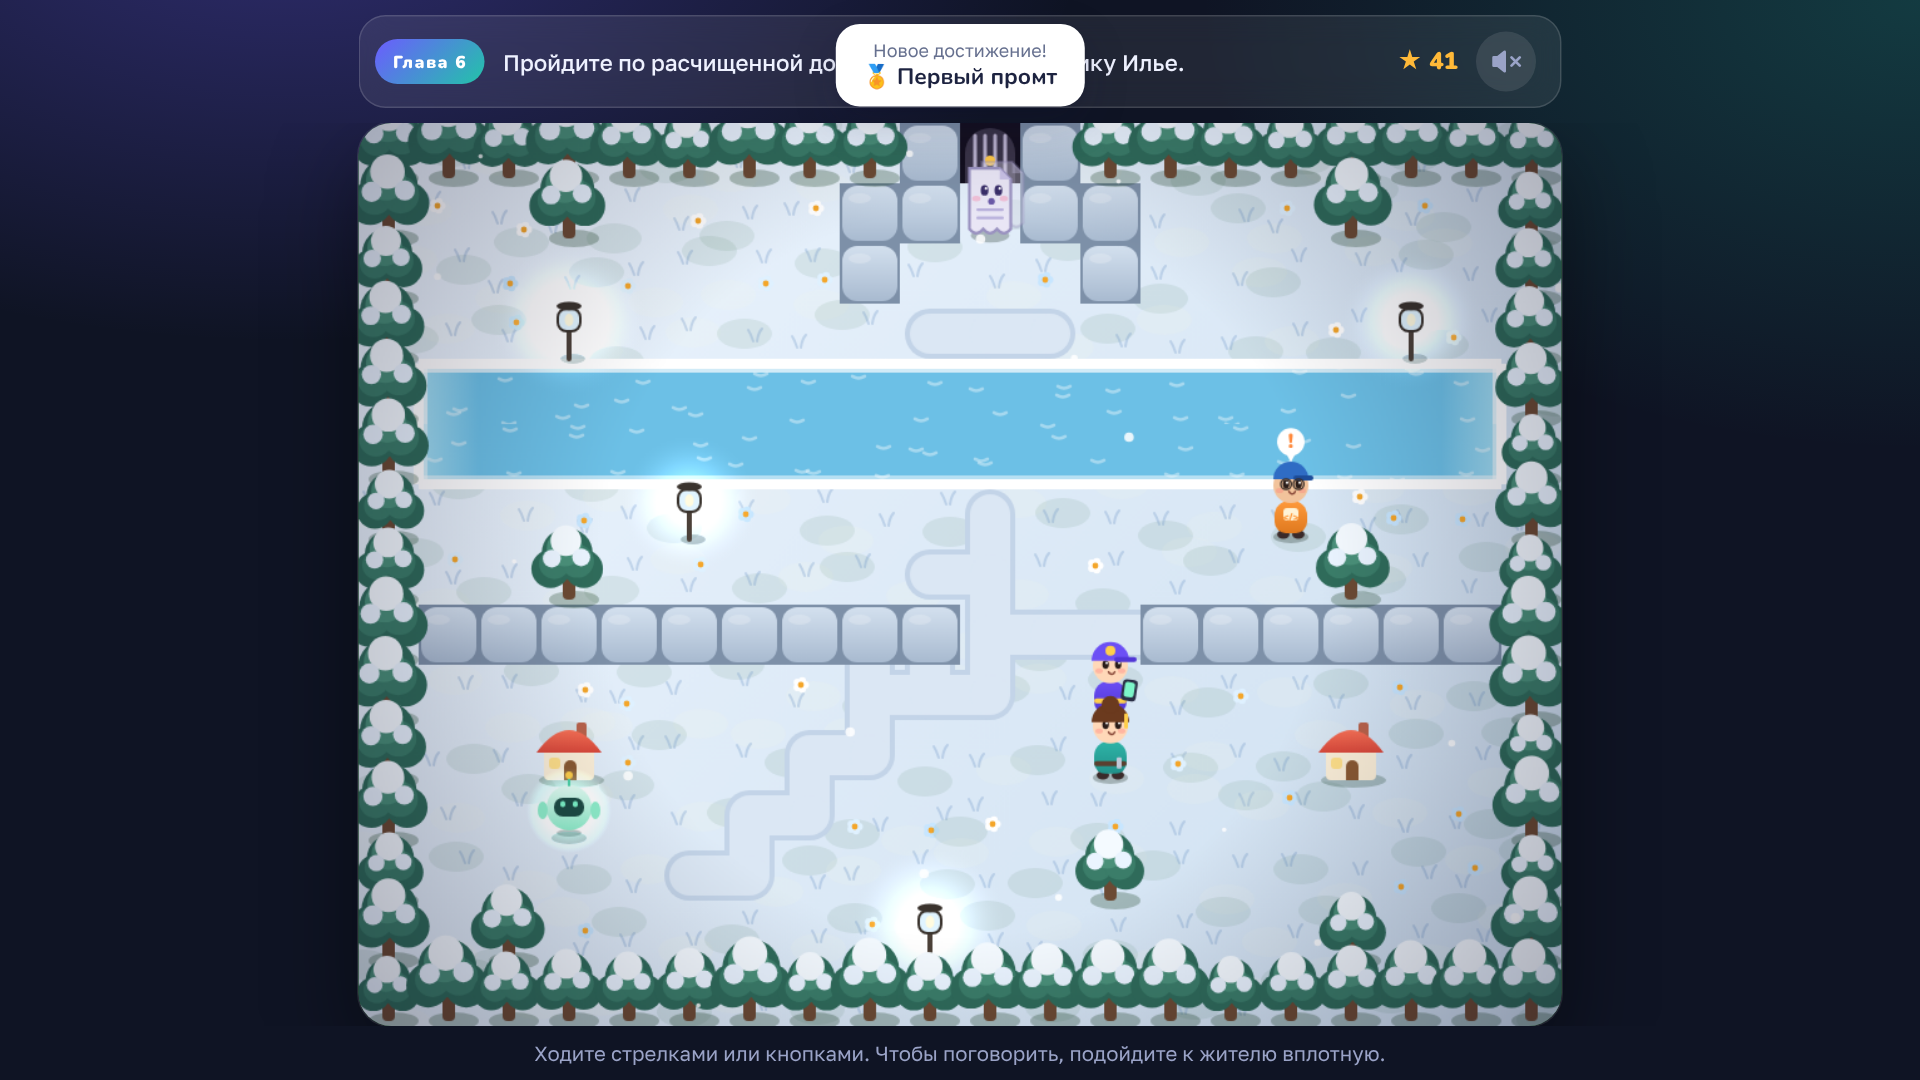
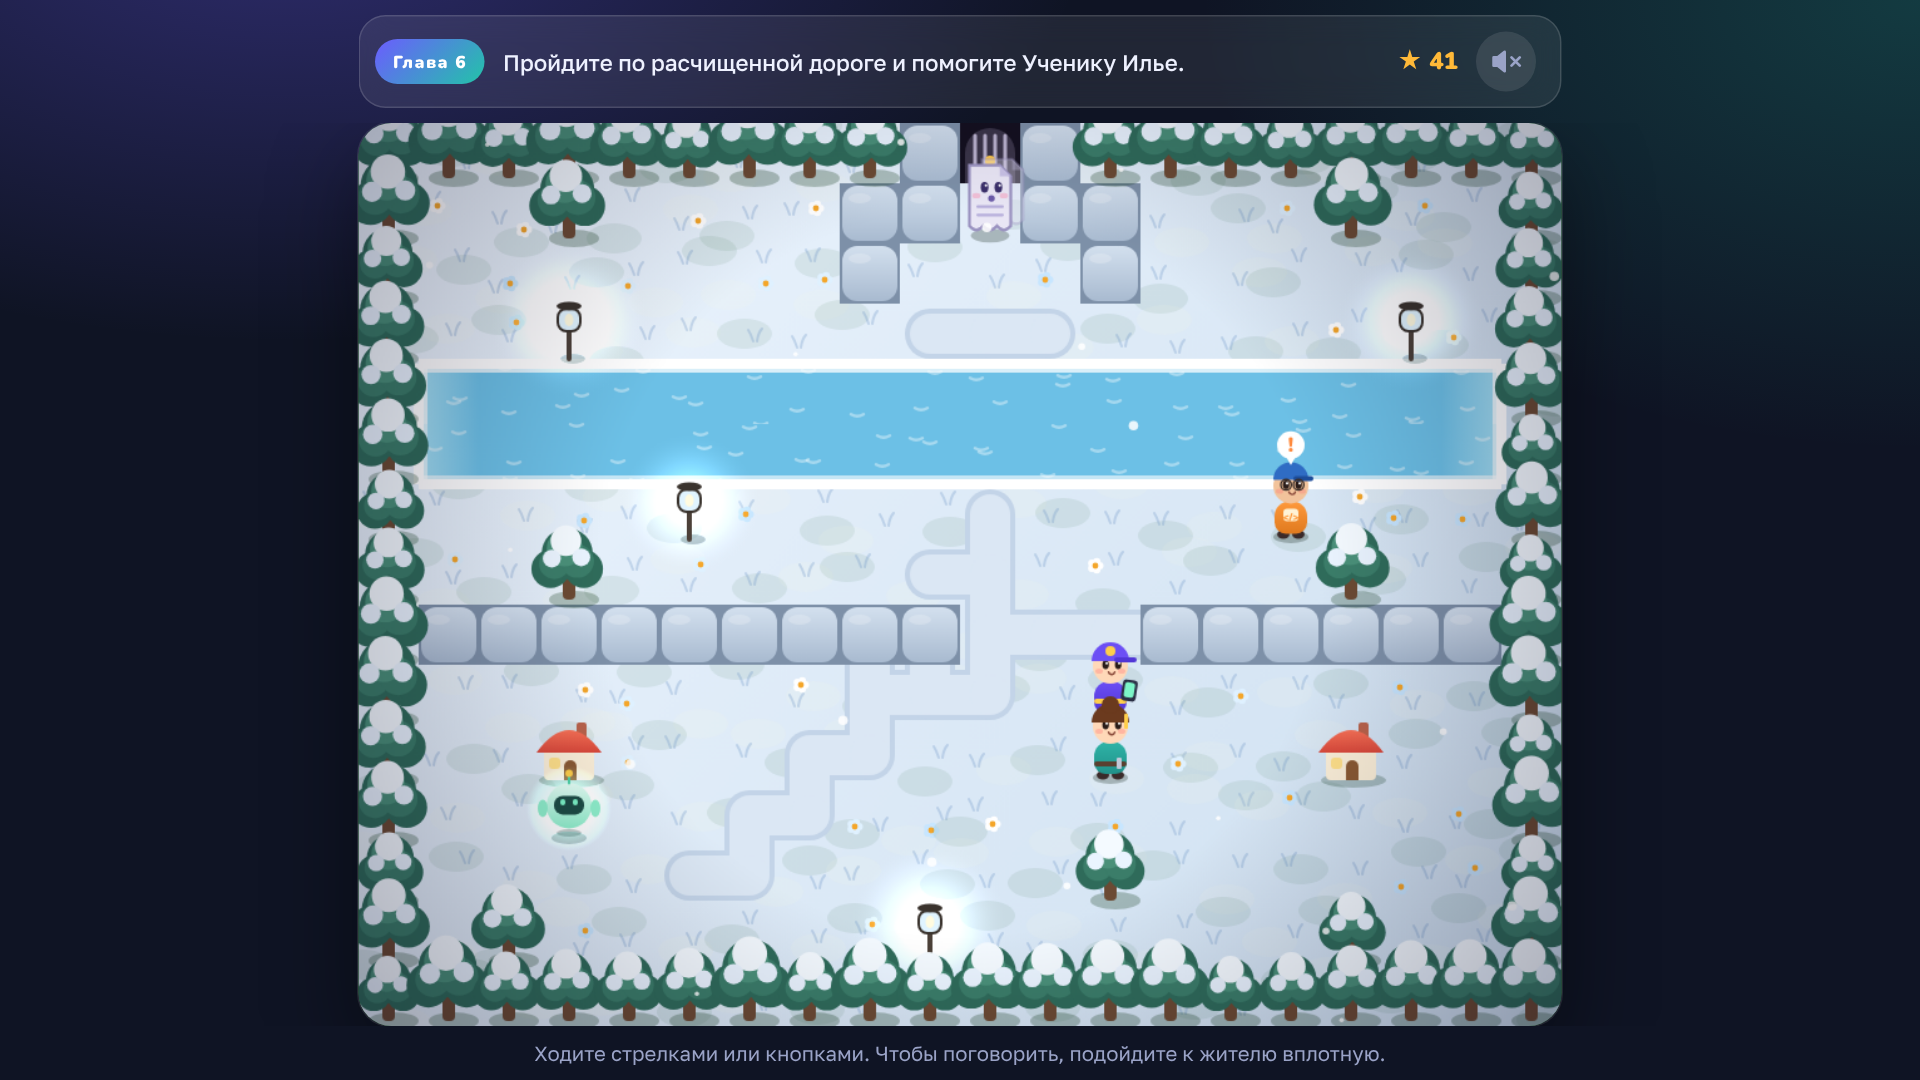
Материалы для Яндекс Игр на трёх языках
- Скриншоты и обложки на английском и узбекском (promo/en, promo/uz).
- Тексты карточки на трёх языках в рамках лимитов Яндекса (promo/store-texts.json).
- Скрипты для картинок и обязательного видео 16:9 (tools/promo); сами видео
  в git не хранятся, они лежат в папке проекта.
- На промо-скриншотах больше нет всплывающего окна достижения.

Claude-Session: https://claude.ai/code/session_01LLc3YPTq3AWudM7CQxceow

diff --git a/tools/promo/trailer.js b/tools/promo/trailer.js
@@ -1,0 +1,58 @@
+// Ролик для карточки Яндекса (16:9, до 28 с): титул → разговор → сборка промта с ошибкой → мост → другие миры.
+const fs = require('fs');
+const { chromium } = require(require('child_process').execSync('npm root -g').toString().trim() + '/playwright');
+const REPO = '/home/claude/zaklinatel-promtov', LANG = process.argv[2] || 'ru', DIR = __dirname + '/vid-' + LANG;
+global.window = {};
+require(REPO + '/js/world.js');
+const { build, W, H, SOLID } = window.World;
+const DIRS = { U: [0, -1], D: [0, 1], L: [-1, 0], R: [1, 0] };
+function route(grid, npcs, from, target) {
+  const key = (x, y) => x + ',' + y, prev = new Map([[key(from.x, from.y), null]]), q = [[from.x, from.y]];
+  while (q.length) {
+    const [x, y] = q.shift();
+    for (const [d, [dx, dy]] of Object.entries(DIRS)) {
+      const nx = x + dx, ny = y + dy, k = key(nx, ny);
+      if (nx < 0 || ny < 0 || nx >= W || ny >= H || prev.has(k)) continue;
+      if (nx === target.x && ny === target.y) { let path = d, cur = key(x, y); while (prev.get(cur)) { const [pd, pk] = prev.get(cur); path = pd + path; cur = pk; } return { path, end: { x, y } }; }
+      if (SOLID.has(grid[ny][nx]) || Object.values(npcs).some(n => !n.hidden && n.x === nx && n.y === ny)) continue;
+      prev.set(k, [d, key(x, y)]); q.push([nx, ny]);
+    }
+  }
+  throw new Error('нет пути');
+}
+const ACH = ['first', 'perfect', 'nohint', 'part1', 'part2', 'allstars', 'daily1', 'streak3', 'streak7'];
+(async () => {
+  fs.rmSync(DIR, { recursive: true, force: true });
+  const b = await chromium.launch();
+  const ctx = await b.newContext({ viewport: { width: 1280, height: 720 }, recordVideo: { dir: DIR, size: { width: 1280, height: 720 } } });
+  const p = await ctx.newPage();
+  await p.addInitScript(lang => { if (!sessionStorage.seeded) { localStorage.clear(); localStorage.setItem('kodolesie-lang', lang); localStorage.setItem('kodolesie-sound', 'off'); sessionStorage.seeded = 1; } }, LANG);
+  await p.goto('file://' + REPO + '/index.html');
+  await p.evaluate(a => localStorage.setItem('zaklinatel-save-v1', JSON.stringify({ v: 3, ch: 0, met: false, done: [], pos: null, stars: {}, ach: a })), ACH);
+  await p.reload(); await p.waitForTimeout(1800);
+  const C = await p.evaluate(() => I18N.content());
+  const K = { U: 'ArrowUp', D: 'ArrowDown', L: 'ArrowLeft', R: 'ArrowRight' };
+  const walk = async s => { for (const c of s) { await p.keyboard.down(K[c]); await p.waitForTimeout(60); await p.keyboard.up(K[c]); await p.waitForTimeout(170); } };
+  const talk = async ms => { while (await p.$('#sheet:not([hidden]) .talk')) { await p.waitForTimeout(ms); await p.click('.talk'); } };
+  const clickCard = async t => { for (const e of await p.$$('.card')) if ((await e.textContent()) === t) return e.click(); };
+  await p.click('#t-play'); await p.waitForTimeout(300);
+  // Вступление: два первых экрана медленно, остальные быстро.
+  let n = 0; while (await p.$('#sheet:not([hidden]) .talk')) { await p.waitForTimeout(n++ < 2 ? 1000 : 60); await p.click('.talk'); }
+  const { grid, npcs, start } = build(0), q = C.CHAPTERS[0].quests[0];
+  await walk(route(grid, npcs, start, npcs[q.id]).path);
+  await talk(650);
+  await p.waitForTimeout(500);
+  await clickCard(q.slots[0].opts.find(o => !o.ok).t); await p.waitForTimeout(300);
+  for (const s of q.slots.slice(1)) { await clickCard(s.opts.find(o => o.ok).t); await p.waitForTimeout(300); }
+  await p.click('#b-cast'); await p.waitForTimeout(2000);
+  await clickCard(q.slots[0].opts.find(o => o.ok).t); await p.waitForTimeout(500);
+  await p.click('#b-cast'); await p.waitForTimeout(2000);
+  await p.click('#m-ok'); await p.waitForTimeout(200); await talk(700); await p.waitForTimeout(1500);
+  // Другие миры: Кодоград и Снежная мастерская.
+  for (const [ch, x, y] of [[3, 10, 6], [5, 12, 9], [6, 6, 8]]) {
+    await p.evaluate(([ch, x, y, a]) => { localStorage.setItem('zaklinatel-save-v1', JSON.stringify({ v: 3, ch, met: true, done: [], pos: { x, y }, stars: {}, ach: a })); }, [ch, x, y, ACH]);
+    await p.reload(); await p.waitForTimeout(300); await p.click('#t-play'); await p.waitForTimeout(1500);
+  }
+  await ctx.close(); await b.close();
+  console.log(fs.readdirSync(DIR));
+})();

diff --git a/tools/promo/promo.js b/tools/promo/promo.js
@@ -1,0 +1,41 @@
+const fs = require('fs');
+const { chromium } = require(require('child_process').execSync('npm root -g').toString().trim() + '/playwright');
+const LANG = process.argv[2] || 'ru';
+const OUT = '/home/claude/zaklinatel-promtov/promo/' + (LANG === 'ru' ? '' : LANG + '/');
+fs.mkdirSync(OUT, { recursive: true });
+const GAME = 'file:///home/claude/zaklinatel-promtov/index.html';
+const talkAll = async p => { while (await p.$('#sheet:not([hidden]) .talk')) { await p.click('.talk'); await p.waitForTimeout(60); } };
+(async () => {
+  const b = await chromium.launch({ args: ['--allow-file-access-from-files'] });
+  for (const m of LANG === 'ru' ? ['icon', 'cover'] : ['cover']) {
+    const p = await b.newPage({ viewport: { width: m === 'icon' ? 512 : 800, height: m === 'icon' ? 512 : 470 } });
+    await p.goto('file:///home/claude/zaklinatel-promtov/promo/_art.html#' + m + '-' + LANG); await p.waitForTimeout(300); await p.waitForFunction(() => document.title === 'done');
+    await (await p.$('#c')).screenshot({ path: OUT + m + '.png' }); await p.close();
+  }
+  const shoot = async (name, viewport, scale, save, act) => {
+    save = { ...save, ach: ['first', 'perfect', 'nohint', 'part1', 'part2', 'allstars', 'daily1', 'streak3', 'streak7'] }; // без всплывающих достижений на скриншотах
+    const ctx = await b.newContext({ viewport, deviceScaleFactor: scale, hasTouch: viewport.width < viewport.height, isMobile: viewport.width < viewport.height });
+    const p = await ctx.newPage();
+    await p.goto(GAME);
+    await p.evaluate(s => { localStorage.setItem('zaklinatel-save-v1', s[0]); localStorage.setItem('kodolesie-sound', 'off'); localStorage.setItem('kodolesie-lang', s[1]); }, [JSON.stringify(save), LANG]);
+    await p.reload(); await p.waitForTimeout(800);
+    await act(p); await p.waitForTimeout(500);
+    await p.screenshot({ path: OUT + name + '.png' }); await ctx.close();
+  };
+  const all = ['F','M','B','K','Q','Z','W','V','X','R','P','U','C','D','J'];
+  const st = n => Object.fromEntries(all.slice(0, n).map((id, i) => [id, i % 4 ? 3 : 2]));
+  const start = async p => { await p.click('#t-play'); await p.waitForTimeout(300); };
+  const desk = { width: 1280, height: 720 }, phone = { width: 360, height: 640 };
+  const sets = [
+    ['desktop-1-forest', { v:3,ch:0,met:true,done:[],pos:{x:8,y:7},stars:{} }, async p => { await start(p); await p.keyboard.down('ArrowDown'); await p.waitForTimeout(80); await p.keyboard.up('ArrowDown'); await p.waitForTimeout(600); await talkAll(p); await p.waitForTimeout(200); await p.click('.card >> nth=0'); await p.click('.slot:nth-of-type(2) .card >> nth=1'); }],
+    ['desktop-2-swamp', { v:3,ch:1,met:true,done:['F','M','B','K'],pos:{x:15,y:7},stars:st(4) }, async p => { await start(p); }],
+    ['desktop-3-tower', { v:3,ch:2,met:true,done:['F','M','B','K','Q','Z','W','V'],pos:{x:9,y:3},stars:st(8) }, async p => { await start(p); await p.keyboard.down('ArrowUp'); await p.waitForTimeout(80); await p.keyboard.up('ArrowUp'); await p.waitForTimeout(400); }],
+    ['desktop-4-lava', { v:3,ch:4,met:true,done:all.slice(0,13),pos:{x:9,y:5},stars:st(13) }, async p => { await start(p); }],
+    ['desktop-5-snow', { v:3,ch:5,met:true,done:[...all,'E'],pos:{x:12,y:9},stars:st(15) }, async p => { await start(p); }],
+    ['mobile-1-forest', { v:3,ch:0,met:true,done:[],pos:{x:8,y:7},stars:{} }, async p => { await start(p); const d = p.locator('#pad .d'); await d.dispatchEvent('pointerdown'); await p.waitForTimeout(150); await d.dispatchEvent('pointerup'); await p.waitForTimeout(600); }],
+    ['mobile-2-city', { v:3,ch:3,met:true,done:all.slice(0,10),pos:{x:10,y:6},stars:st(10) }, async p => { await start(p); }],
+    ['mobile-3-title', { v:3,ch:2,met:true,done:all.slice(0,6),pos:null,stars:st(6) }, async p => {}],
+  ];
+  for (const [name, save, act] of sets) await shoot(name, name.startsWith('desk') ? desk : phone, name.startsWith('desk') ? 1.5 : 3, save, act);
+  await b.close();
+})();

diff --git a/tools/promo/promo-art.html b/tools/promo/promo-art.html
@@ -1,0 +1,36 @@
+<!doctype html><html><head><meta charset="utf-8"><link rel="stylesheet" href="file:///home/claude/zaklinatel-promtov/css/fonts.css">
+<style>body{margin:0;background:#000}canvas{display:block}</style></head><body>
+<canvas id="c"></canvas>
+<script src="file:///home/claude/zaklinatel-promtov/js/world.js"></script>
+<script>
+const [mode, lang = 'ru'] = location.hash.slice(1).split('-'), TXT = { ru: ['Кодолесье', 'Приключение, где учатся просить ИИ точно'], en: ['Codewood', 'An adventure where you learn to ask AI clearly'], uz: ["Kod o'rmoni", "Sun'iy intellektdan aniq so'rashni o'rgatadi"] }[lang], c = document.getElementById('c'), ctx = c.getContext('2d');
+const W = World;
+async function go() {
+  await document.fonts.load('900 80px Nunito', TXT[0]); await document.fonts.load('700 30px "Golos Text"', TXT[1]);
+  const t = 4200;
+  if (mode === 'icon') {
+    c.width = c.height = 512;
+    const g = ctx.createLinearGradient(0, 0, 512, 512); g.addColorStop(0, '#6c5cff'); g.addColorStop(1, '#22c4a8');
+    ctx.fillStyle = g; ctx.fillRect(0, 0, 512, 512);
+    ctx.fillStyle = W.radial(ctx, 256, 230, 260, [[0, 'rgba(255,255,255,.35)'], [1, 'rgba(255,255,255,0)']]); ctx.fillRect(0, 0, 512, 512);
+    for (let i = 0; i < 18; i++) { const x = (i * 97) % 512, y = (i * 173) % 512; ctx.fillStyle = 'rgba(255,255,255,.5)'; ctx.beginPath(); ctx.arc(x, y, 2 + i % 3, 0, 7); ctx.fill(); }
+    const p = document.createElement('canvas'); p.width = p.height = 420; W.drawPortrait(p.getContext('2d'), 'hero', 420, t);
+    ctx.drawImage(p, 60, 70);
+    const s = document.createElement('canvas'); s.width = s.height = 200; W.drawPortrait(s.getContext('2d'), 'S', 200, t);
+    ctx.drawImage(s, 330, 40);
+  } else if (mode === 'cover') {
+    c.width = 800; c.height = 470;
+    const sc = document.createElement('canvas'); sc.width = 960; sc.height = 720; const sx = sc.getContext('2d');
+    const b = W.build(0); b.grid[7][9] = '='; b.grid[7][10] = '=';
+    W.drawScene(sx, b.grid, [{ id: 'hero', px: 6 * 48, py: 9 * 48 }, { id: 'S', px: 7 * 48, py: 9 * 48 }, { id: 'F', px: 8 * 48, py: 8 * 48 }, { id: 'A', px: 3 * 48, py: 10 * 48 }], t, b.theme);
+    ctx.drawImage(sc, 60, 230, 800, 470, 0, 0, 800, 470);
+    const g = ctx.createLinearGradient(0, 0, 0, 470); g.addColorStop(0, 'rgba(20,16,60,.75)'); g.addColorStop(.45, 'rgba(20,16,60,.1)'); g.addColorStop(1, 'rgba(20,16,60,0)');
+    ctx.fillStyle = g; ctx.fillRect(0, 0, 800, 470);
+    ctx.textAlign = 'center'; ctx.fillStyle = '#fff'; ctx.shadowColor = 'rgba(30,20,90,.6)'; ctx.shadowBlur = 18;
+    ctx.font = '900 92px Nunito'; ctx.fillText(TXT[0], 400, 110);
+    ctx.shadowBlur = 8; ctx.font = '700 28px "Golos Text"'; ctx.fillText(TXT[1], 400, 158);
+  }
+  document.title = 'done';
+}
+go();
+</script></body></html>
